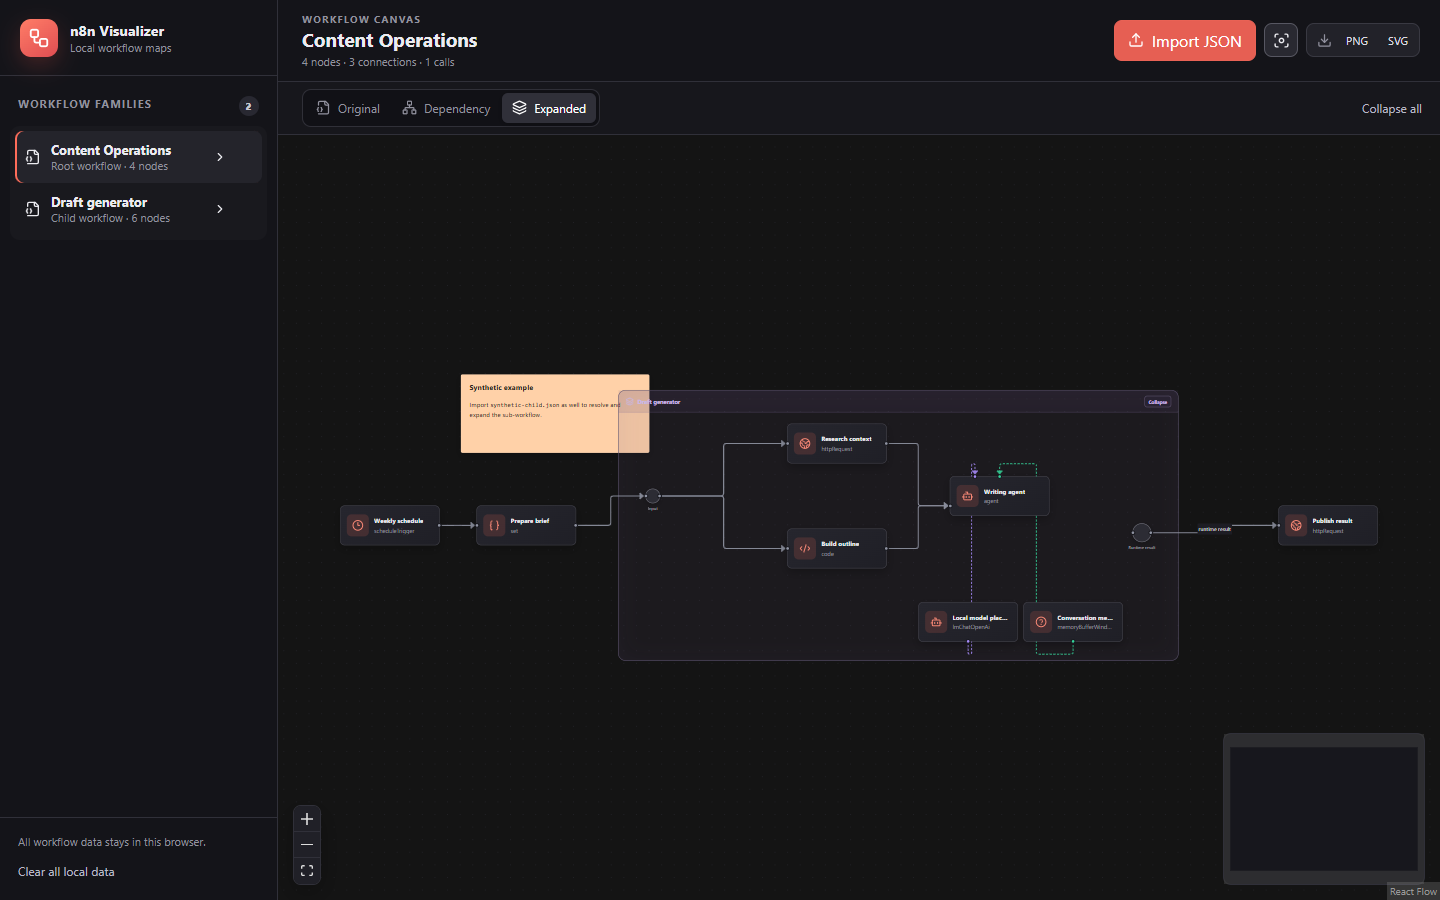
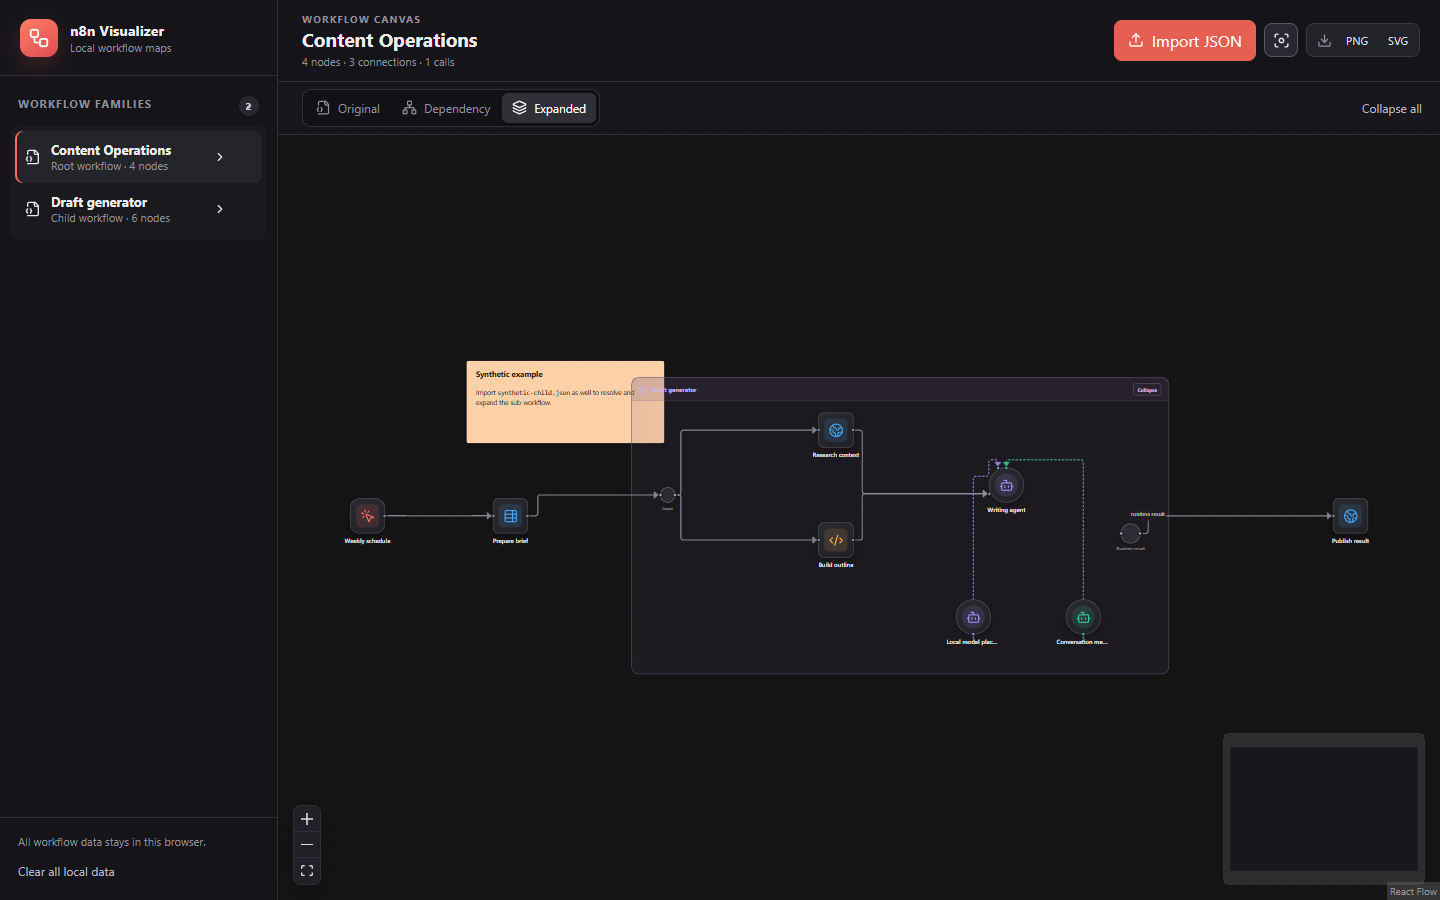
Improve n8n canvas fidelity

diff --git a/src/components/GraphCanvas.tsx b/src/components/GraphCanvas.tsx
@@ -12,21 +12,37 @@ import {
   type NodeProps,
   type ReactFlowInstance,
 } from '@xyflow/react';
+import { SmartEdgeProvider, SmartSmoothStepEdge } from '@tisoap/react-flow-smart-edge';
 import {
   Bot,
   Braces,
   CircleHelp,
   Clock3,
   Code2,
-  Database,
   GitBranch,
+  GitMerge,
   Globe2,
   Layers3,
-  Merge,
+  ListTree,
   MousePointerClick,
+  Sigma,
+  Split,
+  TableProperties,
   Workflow,
   Wrench,
 } from 'lucide-react';
+import {
+  siConfluence,
+  siGithub,
+  siGmail,
+  siGooglesheets,
+  siJira,
+  siMongodb,
+  siMysql,
+  siNotion,
+  siPostgresql,
+  type SimpleIcon,
+} from 'simple-icons';
 import { forwardRef, useImperativeHandle, useMemo, useRef, useState } from 'react';
 import ReactMarkdown from 'react-markdown';
 import rehypeSanitize from 'rehype-sanitize';
@@ -38,6 +54,8 @@ import { exportGraphStage, type ExportFormat } from '../export/exportDiagram';
 interface CanvasNodeData extends Record<string, unknown> {
   label?: string;
   nodeType?: string;
+  operation?: string;
+  resource?: string;
   disabled?: boolean;
   content?: string;
   color?: number;
@@ -90,31 +108,79 @@ function Handles({ data }: { data: CanvasNodeData }) {
   );
 }
 
-function iconFor(type = '') {
+type NodeShape = 'square' | 'rounded' | 'circle';
+
+interface NodeAppearance {
+  color: string;
+  shape: NodeShape;
+  lucide?: typeof CircleHelp;
+  brand?: SimpleIcon;
+}
+
+const brandNodes: Array<[string, SimpleIcon, string?]> = [
+  ['postgres', siPostgresql],
+  ['mysql', siMysql],
+  ['mongo', siMongodb],
+  ['github', siGithub, '#f2f2f2'],
+  ['notion', siNotion, '#f2f2f2'],
+  ['gmail', siGmail],
+  ['googlesheets', siGooglesheets],
+  ['jira', siJira],
+  ['confluence', siConfluence],
+];
+
+function appearanceFor(type = ''): NodeAppearance {
   const normalized = type.toLowerCase();
-  if (normalized.includes('execute') || normalized.includes('workflow')) return Workflow;
-  if (normalized.includes('database') || normalized.includes('postgres') || normalized.includes('mysql')) return Database;
-  if (normalized.includes('http') || normalized.includes('webhook')) return Globe2;
-  if (normalized.includes('code') || normalized.includes('function')) return Code2;
-  if (normalized.includes('if') || normalized.includes('switch')) return GitBranch;
-  if (normalized.includes('merge')) return Merge;
-  if (normalized.includes('schedule') || normalized.includes('cron')) return Clock3;
-  if (normalized.includes('trigger')) return MousePointerClick;
-  if (normalized.includes('agent') || normalized.includes('openai') || normalized.includes('model')) return Bot;
-  if (normalized.includes('tool')) return Wrench;
-  if (normalized.includes('set') || normalized.includes('editfields')) return Braces;
-  return CircleHelp;
+  const brand = brandNodes.find(([needle]) => normalized.includes(needle));
+  if (brand) return { brand: brand[1], color: brand[2] ?? `#${brand[1].hex}`, shape: 'square' };
+
+  const isAiSubnode = /(?:lmchat|language.?model|memory|embedding|vectorstore|retriever|outputparser|tool)/.test(normalized);
+  if (isAiSubnode) {
+    const lucide = normalized.includes('tool') ? Wrench : Bot;
+    return { lucide, color: normalized.includes('memory') ? '#34d399' : '#a78bfa', shape: 'circle' };
+  }
+  if (normalized.includes('manualtrigger')) return { lucide: MousePointerClick, color: '#ff6d5a', shape: 'rounded' };
+  if (normalized.includes('trigger') || normalized.includes('webhook')) return { lucide: normalized.includes('webhook') ? Globe2 : MousePointerClick, color: '#ff6d5a', shape: 'rounded' };
+  if (normalized.includes('execute') || normalized.includes('workflow')) return { lucide: Workflow, color: '#ff6d5a', shape: 'square' };
+  if (normalized.includes('http')) return { lucide: Globe2, color: '#4aa7f5', shape: 'square' };
+  if (normalized.includes('code') || normalized.includes('function')) return { lucide: Code2, color: '#ffb454', shape: 'square' };
+  if (normalized.endsWith('.if') || normalized.includes('switch')) return { lucide: GitBranch, color: '#8f93a2', shape: 'square' };
+  if (normalized.includes('merge')) return { lucide: GitMerge, color: '#4cc38a', shape: 'square' };
+  if (normalized.includes('splitout') || normalized.includes('splitinbatches')) return { lucide: Split, color: '#56b6c2', shape: 'square' };
+  if (normalized.includes('aggregate')) return { lucide: Sigma, color: '#c678dd', shape: 'square' };
+  if (normalized.includes('itemlists')) return { lucide: ListTree, color: '#56b6c2', shape: 'square' };
+  if (normalized.includes('schedule') || normalized.includes('cron')) return { lucide: Clock3, color: '#ffb454', shape: 'rounded' };
+  if (normalized.includes('set') || normalized.includes('editfields')) return { lucide: TableProperties, color: '#4aa7f5', shape: 'square' };
+  if (normalized.includes('agent') || normalized.includes('model')) return { lucide: Bot, color: '#a78bfa', shape: 'circle' };
+  if (normalized.includes('tool')) return { lucide: Wrench, color: '#38bdf8', shape: 'circle' };
+  if (normalized.includes('json') || normalized.includes('xml')) return { lucide: Braces, color: '#e5c07b', shape: 'square' };
+  return { lucide: CircleHelp, color: '#a0a1ad', shape: 'square' };
+}
+
+function BrandIcon({ icon }: { icon: SimpleIcon }) {
+  return (
+    <svg viewBox="0 0 24 24" role="img" aria-label={icon.title}>
+      <path d={icon.path} fill="currentColor" />
+    </svg>
+  );
 }
 
 function WorkflowNode({ data }: NodeProps<CanvasNode>) {
-  const Icon = iconFor(data.nodeType);
+  const appearance = appearanceFor(data.nodeType);
+  const Icon = appearance.lucide ?? CircleHelp;
+  const operation = [data.resource, data.operation].filter(Boolean).join(' · ');
+  const style = { '--node-accent': appearance.color } as React.CSSProperties;
   return (
-    <div className={`node-card ${data.disabled ? 'is-disabled' : ''}`}>
-      <Handles data={data} />
-      <span className="node-icon"><Icon size={22} /></span>
-      <span className="node-copy">
+    <div className={`canvas-node ${data.disabled ? 'is-disabled' : ''}`} style={style}>
+      <div className={`node-tile shape-${appearance.shape}`}>
+        <Handles data={data} />
+        <span className="node-symbol">
+          {appearance.brand ? <BrandIcon icon={appearance.brand} /> : <Icon size={27} strokeWidth={1.8} />}
+        </span>
+      </div>
+      <span className="node-copy" title={String(data.label ?? 'Unnamed node')}>
         <strong>{String(data.label ?? 'Unnamed node')}</strong>
-        <small>{String(data.nodeType ?? 'Unknown node type').replace(/^.*\./, '')}</small>
+        {operation ? <small>{operation}</small> : null}
       </span>
       {data.disabled ? <span className="node-badge">Disabled</span> : null}
     </div>
@@ -227,6 +293,9 @@ const GraphCanvasInner = forwardRef<GraphCanvasHandle, GraphCanvasProps>(({ scen
     style: { width: node.width, height: node.height, zIndex: node.zIndex },
     data: { ...node.data, ...handlesFor(node, scene), onToggle: onTogglePath },
   })), [scene, onTogglePath]);
+  // Expanded workflow boundaries are visual containers, not obstacles. Their
+  // children occupy the same rectangle and remain the real routing obstacles.
+  const routingNodes = useMemo(() => nodes.filter((node) => node.type !== 'boundary'), [nodes]);
   const edges = useMemo<Edge[]>(() => scene.edges.map((edge) => ({
     id: edge.id,
     source: edge.source,
@@ -234,7 +303,7 @@ const GraphCanvasInner = forwardRef<GraphCanvasHandle, GraphCanvasProps>(({ scen
     sourceHandle: edge.sourceHandle,
     targetHandle: edge.targetHandle,
     label: edge.label,
-    type: 'smoothstep',
+    type: 'smart',
     markerEnd: { type: MarkerType.ArrowClosed, color: connectionColor(edge.connectionType), width: 14, height: 14 },
     style: edge.style,
     animated: edge.connectionType !== 'main' && !edge.inactive,
@@ -251,25 +320,28 @@ const GraphCanvasInner = forwardRef<GraphCanvasHandle, GraphCanvasProps>(({ scen
 
   return (
     <div className="graph-stage" ref={stageRef} data-testid="graph-stage">
-      <ReactFlow
-        nodes={nodes}
-        edges={edges}
-        nodeTypes={nodeTypes}
-        onInit={setInstance}
-        nodesDraggable={false}
-        nodesConnectable={false}
-        elementsSelectable
-        fitView
-        fitViewOptions={{ padding: 0.12, minZoom: 0.02 }}
-        minZoom={0.02}
-        maxZoom={3}
-        colorMode="dark"
-        proOptions={{ hideAttribution: false }}
-      >
-        <Background color="#32323c" gap={24} size={1} />
-        <MiniMap pannable zoomable nodeColor={(node) => node.type === 'sticky' ? '#786f3d' : node.type === 'boundary' ? '#2d2940' : '#5b5c68'} />
-        <Controls showInteractive={false} />
-      </ReactFlow>
+      <SmartEdgeProvider nodes={routingNodes} options={{ preset: 'smoothstep', gridRatio: 8, nodePadding: 12, borderRadius: 8, routeOnlyWhenBlocked: false }}>
+        <ReactFlow
+          nodes={nodes}
+          edges={edges}
+          nodeTypes={nodeTypes}
+          edgeTypes={{ smart: SmartSmoothStepEdge }}
+          onInit={setInstance}
+          nodesDraggable={false}
+          nodesConnectable={false}
+          elementsSelectable
+          fitView
+          fitViewOptions={{ padding: 0.12, minZoom: 0.02 }}
+          minZoom={0.02}
+          maxZoom={3}
+          colorMode="dark"
+          proOptions={{ hideAttribution: false }}
+        >
+          <Background color="#32323c" gap={24} size={1} />
+          <MiniMap pannable zoomable nodeColor={(node) => node.type === 'sticky' ? '#786f3d' : node.type === 'boundary' ? '#2d2940' : '#5b5c68'} />
+          <Controls showInteractive={false} />
+        </ReactFlow>
+      </SmartEdgeProvider>
     </div>
   );
 });

diff --git a/src/styles.css b/src/styles.css
@@ -76,13 +76,20 @@ button { color: inherit; }
 .graph-stage .react-flow__edge-text { fill: #d6d6dc; font-size: 10px; }
 .graph-stage .react-flow__handle { width: 9px; height: 9px; border: 2px solid #17171d; }
 
-.node-card { position: relative; display: flex; align-items: center; width: 100%; height: 100%; padding: 12px 12px; border: 1px solid #464650; border-radius: 9px; background: linear-gradient(145deg, #26262e, #1f1f26); box-shadow: 0 7px 18px rgba(0,0,0,.24); }
-.node-card:hover { border-color: #666674; }
-.node-card.is-disabled { opacity: .48; filter: grayscale(.7); }
-.node-icon { display: grid; flex: 0 0 auto; width: 42px; height: 42px; margin-right: 10px; place-items: center; border-radius: 9px; color: #ff8b78; background: var(--accent-soft); }
-.node-copy strong { max-width: 108px; overflow: hidden; font-size: 12px; text-overflow: ellipsis; white-space: nowrap; }
-.node-copy small { max-width: 108px; margin-top: 3px; overflow: hidden; text-overflow: ellipsis; white-space: nowrap; }
-.node-badge { position: absolute; top: -9px; right: 7px; padding: 2px 6px; border: 1px solid #64646d; border-radius: 7px; color: #c6c6ce; background: #292930; font-size: 8px; text-transform: uppercase; }
+.canvas-node { --node-accent: #a0a1ad; position: relative; display: flex; align-items: center; width: 100%; height: 100%; flex-direction: column; color: #ececf1; }
+.canvas-node.is-disabled { opacity: .46; filter: grayscale(.72); }
+.node-tile { position: relative; display: grid; flex: 0 0 auto; width: 64px; height: 64px; place-items: center; border: 1px solid #555661; border-radius: 10px; background: linear-gradient(145deg, #2a2a31, #202127); box-shadow: 0 5px 13px rgba(0,0,0,.32), inset 0 1px rgba(255,255,255,.035); transition: border-color .12s ease, box-shadow .12s ease; }
+.canvas-node:hover .node-tile { border-color: var(--node-accent); box-shadow: 0 0 0 2px color-mix(in srgb, var(--node-accent) 18%, transparent), 0 6px 15px rgba(0,0,0,.36); }
+.node-tile.shape-rounded { border-radius: 18px; }
+.node-tile.shape-circle { border-radius: 50%; }
+.node-symbol { display: grid; width: 42px; height: 42px; place-items: center; border-radius: 9px; color: var(--node-accent); background: color-mix(in srgb, var(--node-accent) 13%, transparent); }
+.node-tile.shape-circle .node-symbol { border-radius: 50%; }
+.node-symbol svg { width: 27px; height: 27px; }
+.node-copy { align-items: center; width: 100%; padding: 6px 1px 0; text-align: center; }
+.node-copy strong { max-width: 100%; overflow: hidden; font-size: 11px; font-weight: 600; line-height: 14px; text-overflow: ellipsis; white-space: nowrap; }
+.node-copy small { max-width: 100%; margin-top: 1px; overflow: hidden; font-size: 8px; line-height: 10px; text-overflow: ellipsis; white-space: nowrap; }
+.node-badge { position: absolute; z-index: 2; top: -7px; right: -3px; padding: 2px 5px; border: 1px solid #64646d; border-radius: 7px; color: #c6c6ce; background: #292930; font-size: 7px; text-transform: uppercase; }
+.canvas-node .react-flow__handle { width: 8px; height: 8px; border-color: #202127; }
 .sticky-note { width: 100%; height: 100%; padding: 14px 16px; overflow: hidden; border: 1px solid rgba(255,255,255,.12); border-radius: 4px; color: #25221b; box-shadow: 0 5px 14px rgba(0,0,0,.18); font-size: 12px; line-height: 1.45; }
 .sticky-note > :first-child { margin-top: 0; }.sticky-note > :last-child { margin-bottom: 0; }
 .sticky-note pre, .sticky-note code { white-space: pre-wrap; word-break: break-word; }

diff --git a/src/renderers/workflow/original.ts b/src/renderers/workflow/original.ts
@@ -2,8 +2,11 @@ import type { NormalizedWorkflow } from '../../n8n/types';
 import type { GraphScene, SceneEdge, SceneNode } from '../scene';
 import { edgeStyle, makeHandle } from '../scene';
 
-export const DEFAULT_NODE_WIDTH = 190;
-export const DEFAULT_NODE_HEIGHT = 76;
+// n8n positions nodes by a compact canvas footprint. Keeping the footprint
+// separate from the inner tile preserves the exported coordinates and leaves
+// room for the label without making neighbouring nodes collide.
+export const DEFAULT_NODE_WIDTH = 100;
+export const DEFAULT_NODE_HEIGHT = 100;
 
 export function buildOriginalScene(workflow: NormalizedWorkflow, prefix = workflow.key): GraphScene {
   const nodeId = (id: string) => `${prefix}/node:${id}`;
@@ -20,6 +23,8 @@ export function buildOriginalScene(workflow: NormalizedWorkflow, prefix = workfl
       nodeType: node.type,
       typeVersion: node.typeVersion,
       disabled: node.disabled,
+      resource: typeof node.parameters.resource === 'string' ? node.parameters.resource : undefined,
+      operation: typeof node.parameters.operation === 'string' ? node.parameters.operation : undefined,
     },
   }));
   nodes.push(

diff --git a/tests/e2e/app.spec.ts b/tests/e2e/app.spec.ts
@@ -19,6 +19,13 @@ test('imports peers independently, resolves a later child, switches views, colla
   await expect(page.getByRole('dialog', { name: 'Import results' })).toContainText('1 accepted · 1 skipped');
   await expect(page.getByRole('heading', { level: 1 })).toHaveText('Content Operations');
   await expect(page.getByText('1 missing reference')).toBeVisible();
+  const nodeGeometry = await page.getByTestId('graph-stage').locator('.canvas-node').first().evaluate((node) => {
+    const tile = getComputedStyle(node.querySelector('.node-tile')!);
+    const footprint = getComputedStyle(node);
+    return { footprintWidth: footprint.width, footprintHeight: footprint.height, tileWidth: tile.width, tileHeight: tile.height };
+  });
+  expect(nodeGeometry).toEqual({ footprintWidth: '100px', footprintHeight: '100px', tileWidth: '64px', tileHeight: '64px' });
+  await expect(page.getByTestId('graph-stage').locator('.react-flow__edge-path[d]')).toHaveCount(3);
 
   await page.getByRole('button', { name: 'Dependency' }).click();
   await expect(page.getByTestId('graph-stage').locator('.dependency-card')).toHaveCount(1);

diff --git a/vite.config.ts b/vite.config.ts
@@ -16,7 +16,7 @@ export default defineConfig({
       transformIndexHtml(html) {
         return html.replace(
           '<!-- production-csp -->',
-          '<meta http-equiv="Content-Security-Policy" content="default-src \'self\'; script-src \'self\'; style-src \'self\' \'unsafe-inline\'; img-src \'self\' data: blob:; font-src \'self\'; connect-src \'none\'; object-src \'none\'; frame-src \'none\'; base-uri \'self\'; form-action \'none\'">',
+          '<meta http-equiv="Content-Security-Policy" content="default-src \'self\'; script-src \'self\'; style-src \'self\' \'unsafe-inline\'; img-src \'self\' data: blob:; font-src \'self\'; connect-src \'none\'; worker-src \'self\' blob:; object-src \'none\'; frame-src \'none\'; base-uri \'self\'; form-action \'none\'">',
         );
       },
     },

diff --git a/tests/scenes.test.ts b/tests/scenes.test.ts
@@ -15,7 +15,7 @@ describe('scene builders', () => {
       A: { future: [null, [{ node: 'B', type: 'futureTarget', index: 4 }]] },
     });
     const scene = buildOriginalScene(parse(raw));
-    expect(scene.nodes.find((item) => item.id.endsWith('node:a'))).toMatchObject({ x: -100, y: 25 });
+    expect(scene.nodes.find((item) => item.id.endsWith('node:a'))).toMatchObject({ x: -100, y: 25, width: 100, height: 100 });
     expect(scene.edges[0]).toMatchObject({ sourceHandle: 'out:future:1', targetHandle: 'in:futureTarget:4' });
   });
 

diff --git a/README.md b/README.md
@@ -11,11 +11,12 @@ A private-by-default, browser-only visualizer for n8n workflow JSON exports. Imp
 - Resolves imported sub-workflows by exported workflow ID, including legacy strings and current resource-locator values.
 - Represents dynamic, missing, embedded, deprecated local-file/URL, invalid, disabled, and recursive references explicitly.
 - Offers three read-only views:
-  - **Original** — exported n8n positions and all socket types.
+  - **Original** — exported n8n positions, compact type-specific node shapes/icons, and all socket types.
   - **Dependency** — deterministic Dagre layout for the selected workflow family.
   - **Expanded** — nested boundaries with trigger fan-out and conservative result routing.
 - Saves raw imports and UI state in IndexedDB, then reparses raw data with the current parser when restored.
 - Exports the graph stage as PNG (up to 2× within safe canvas limits) or SVG.
+- Routes orthogonal connections around node bodies while retaining every exported output and input index.
 
 All processing is local. The application has no analytics, service worker, external fonts/CDNs, or application network calls. It never opens imported file paths or fetches imported URLs. Production builds include a CSP with `connect-src 'none'`.
 

diff --git a/docs/architecture.md b/docs/architecture.md
@@ -12,3 +12,5 @@ The application is deliberately split at data boundaries:
 No imported data is executed. Sticky-note HTML is disabled, URI schemes are allowlisted, images are replaced with inert text, and imported values never reach `dangerouslySetInnerHTML`. The production CSP disables all network connections. There are no analytics, service workers, external fonts, CDNs, or application fetch calls.
 
 Expanded layout is a pure geometric transformation: child-relative positions and parent Y coordinates are retained, calls are processed in stable X/Y/ID order, and only downstream or horizontally colliding parent elements move right. Dependency view is the only view that uses Dagre.
+
+Original and Expanded workflow nodes use a compact 100×100 canvas footprint around a 64×64 visual tile. This matches the spacing model used by exported n8n coordinates without rewriting valid positions. Node appearance is selected locally from the normalized type string, with bundled brand glyphs where available and an explicit generic fallback for unknown future types. Connections use a bundled obstacle-aware orthogonal router; Expanded workflow boundaries are decorative containers and are deliberately excluded from its obstacle set.
